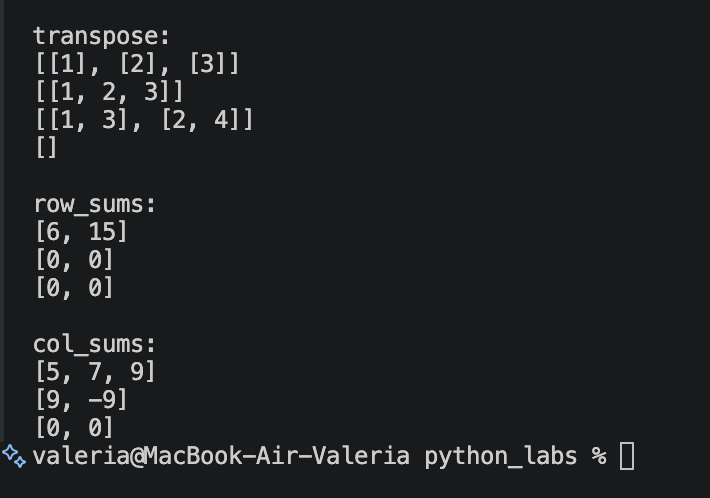
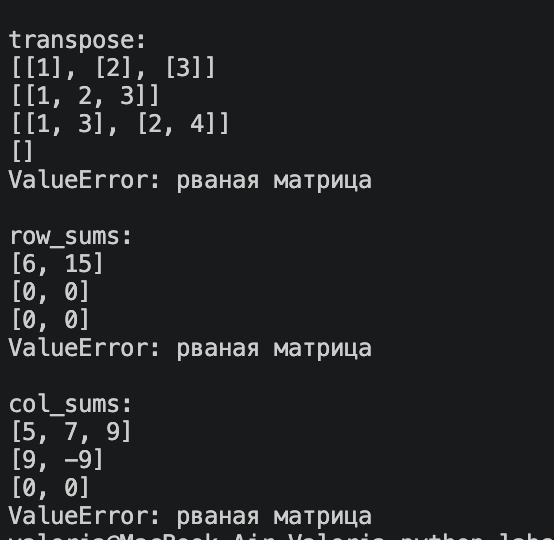
.

Changed region(s): [[0.0, 0.3916, 1.0, 1.0], [0.0, 0.0602, 0.6751, 0.3614]]

diff --git a/README.md b/README.md
@@ -93,65 +93,17 @@ except TypeError as e:
 
 ## Задание B
 ```python
-def transpose(mat: list[list[float | int]]) -> list[list]:
-    if not mat:
-        return []
-
-    n = len(mat[0])
-
-    for row in mat:
-        if len(row) != n:
-            raise ValueError("рваная матрица")
-
-    result = []
-
-    for i in range(n):
-        result.append([row[i] for row in mat])
-
-    return result
-
-
-def row_sums(mat: list[list[float | int]]) -> list[float]:
-    if not mat:
-        return []
-
-    n = len(mat[0])
-
-    for row in mat:
-        if len(row) != n:
-            raise ValueError("рваная матрица")
-
-    result = []
-
-    for row in mat:
-        result.append(sum(row))
-
-    return result
-
-
-def col_sums(mat: list[list[float | int]]) -> list[float]:
-    if not mat:
-        return []
-
-    n = len(mat[0])
-
-    for row in mat:
-        if len(row) != n:
-            raise ValueError("рваная матрица")
-
-    result = []
-
-    for i in range(n):
-        result.append(sum(row[i] for row in mat))
-
-    return result
-
-
+```python
 print("\ntranspose:")
 print(transpose([[1, 2, 3]]))
 print(transpose([[1], [2], [3]]))
 print(transpose([[1, 2], [3, 4]]))
 print(transpose([]))
+
+try:
+    transpose([[1, 2], [3]])
+except ValueError as e:
+    print(f"ValueError: {e}")
 
 
 print("\nrow_sums:")
@@ -159,10 +111,22 @@ print(row_sums([[1, 2, 3], [4, 5, 6]]))
 print(row_sums([[-1, 1], [10, -10]]))
 print(row_sums([[0, 0], [0, 0]]))
 
+try:
+    row_sums([[1, 2], [3]])
+except ValueError as e:
+    print(f"ValueError: {e}")
+
+
 print("\ncol_sums:")
 print(col_sums([[1, 2, 3], [4, 5, 6]]))
 print(col_sums([[-1, 1], [10, -10]]))
 print(col_sums([[0, 0], [0, 0]]))
+
+try:
+    col_sums([[1, 2], [3]])
+except ValueError as e:
+    print(f"ValueError: {e}")
+
 ```
  ![2 задание](images/lab02/matrix02.png)
  
